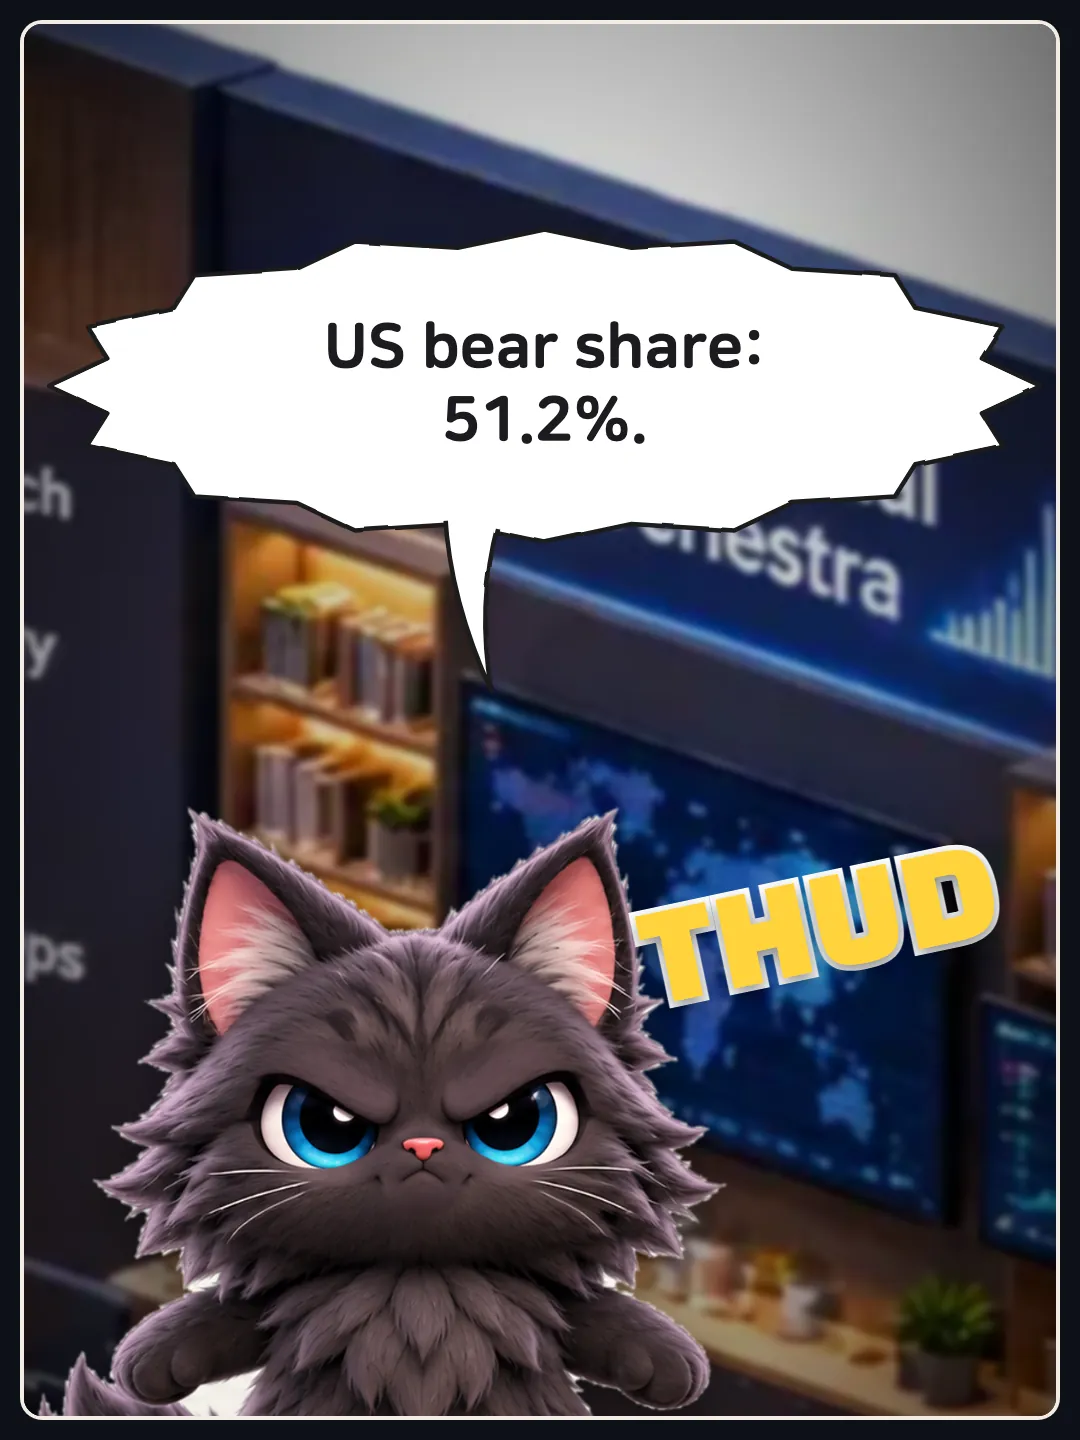
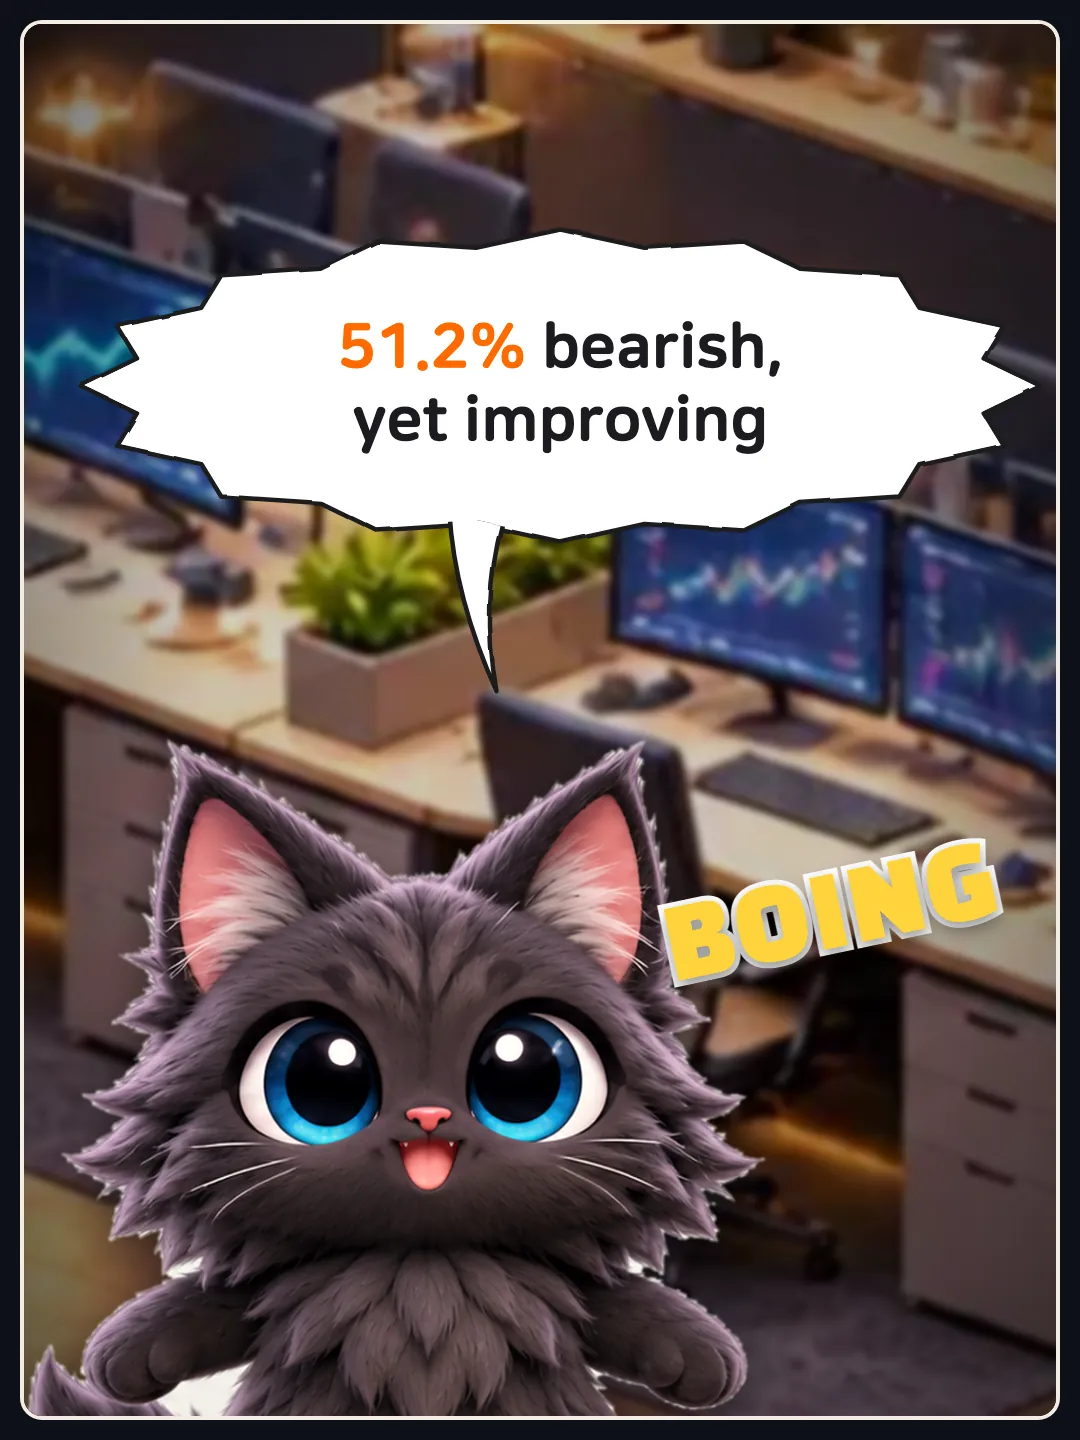
publish: US desk diary: range-bound, but the trend is improving

diff --git a/src/content/toon/2026-11-18-us-en.md b/src/content/toon/2026-11-18-us-en.md
@@ -1,9 +1,9 @@
 ---
-title: 'Maine''s US read: range-bound, bear share at 51.2%'
+title: 'US desk diary: range-bound, but the trend is improving'
 date: '2026-11-18T08:45:37+09:00'
-description: US stocks are range-bound with a 51.2% bear share and a 28.8% bull share,
-  though the US trend reads as improving. Crypto is range-bound with 88.3% bearish
-  signals. Bonds read bullish and FX strongly bullish.
+description: US stocks are range-bound with an improving trend, a 51.2% bear share
+  and a 28.8% bull share. Consumer Defensive, Communication Services and Real Estate
+  are strong, while Technology, Financial Services and Industrials ar
 category: toon
 markets:
 - us
@@ -20,21 +20,23 @@ series: us
 episode: 3
 images:
 - src: /toon/2026-11-18-us-en/01.webp
-  alt: 1/Cover — What's Maine eyeing?
+  alt: 1/Cover — Stuck, but improving?
 - src: /toon/2026-11-18-us-en/02.webp
-  alt: '2/Talk — !QAZ: Maine, why the long face? / Maine: US stocks are range-bound.
-    / !QAZ: How heavy is the bear side? / Maine: ...Just over half.'
+  alt: '2/Talk — !QAZ: US desk, verdict? / Maine: Range-bound, improving / Maine:
+    Defensive, Comms, Real Estate lead; Tech, Finance lag / !QAZ: ...Industrials lag
+    too'
 - src: /toon/2026-11-18-us-en/03.webp
-  alt: '3/Talk — !QAZ: And crypto? / Maine: 88.3% bearish signals. / !QAZ: Anything
-    looking bright? / Maine: Bonds and FX? Bullish.'
+  alt: '3/Talk — !QAZ: Compare with crypto? / Maine: ...brace yourself / Maine: Crypto:
+    88% bear share. Ours is 51%. / !QAZ: Relatively speaking.'
 - src: /toon/2026-11-18-us-en/04.webp
-  alt: '4/Key point — US bear share: 51.2%.'
+  alt: 4/Key point — 51.2% bearish, yet improving
 - src: /toon/2026-11-18-us-en/05.webp
-  alt: '5/Last word — !QAZ: So where do US stocks go? / Maine: Ask the sideways line.'
+  alt: '5/Last word — !QAZ: Anything scheduled? / Maine: Chevron''s ex-dividend date
+    is scheduled Nov 18. / Maine: ...noted, then nap.'
 source: /market/2026-11-18-us-close-en/
 ---
 
-Source market read: [2026-11-18 Maine](/market/2026-11-18-us-close-en/)
+[Source market read: 2026-11-18 Maine](/market/2026-11-18-us-close-en/)
 
 ---
 
